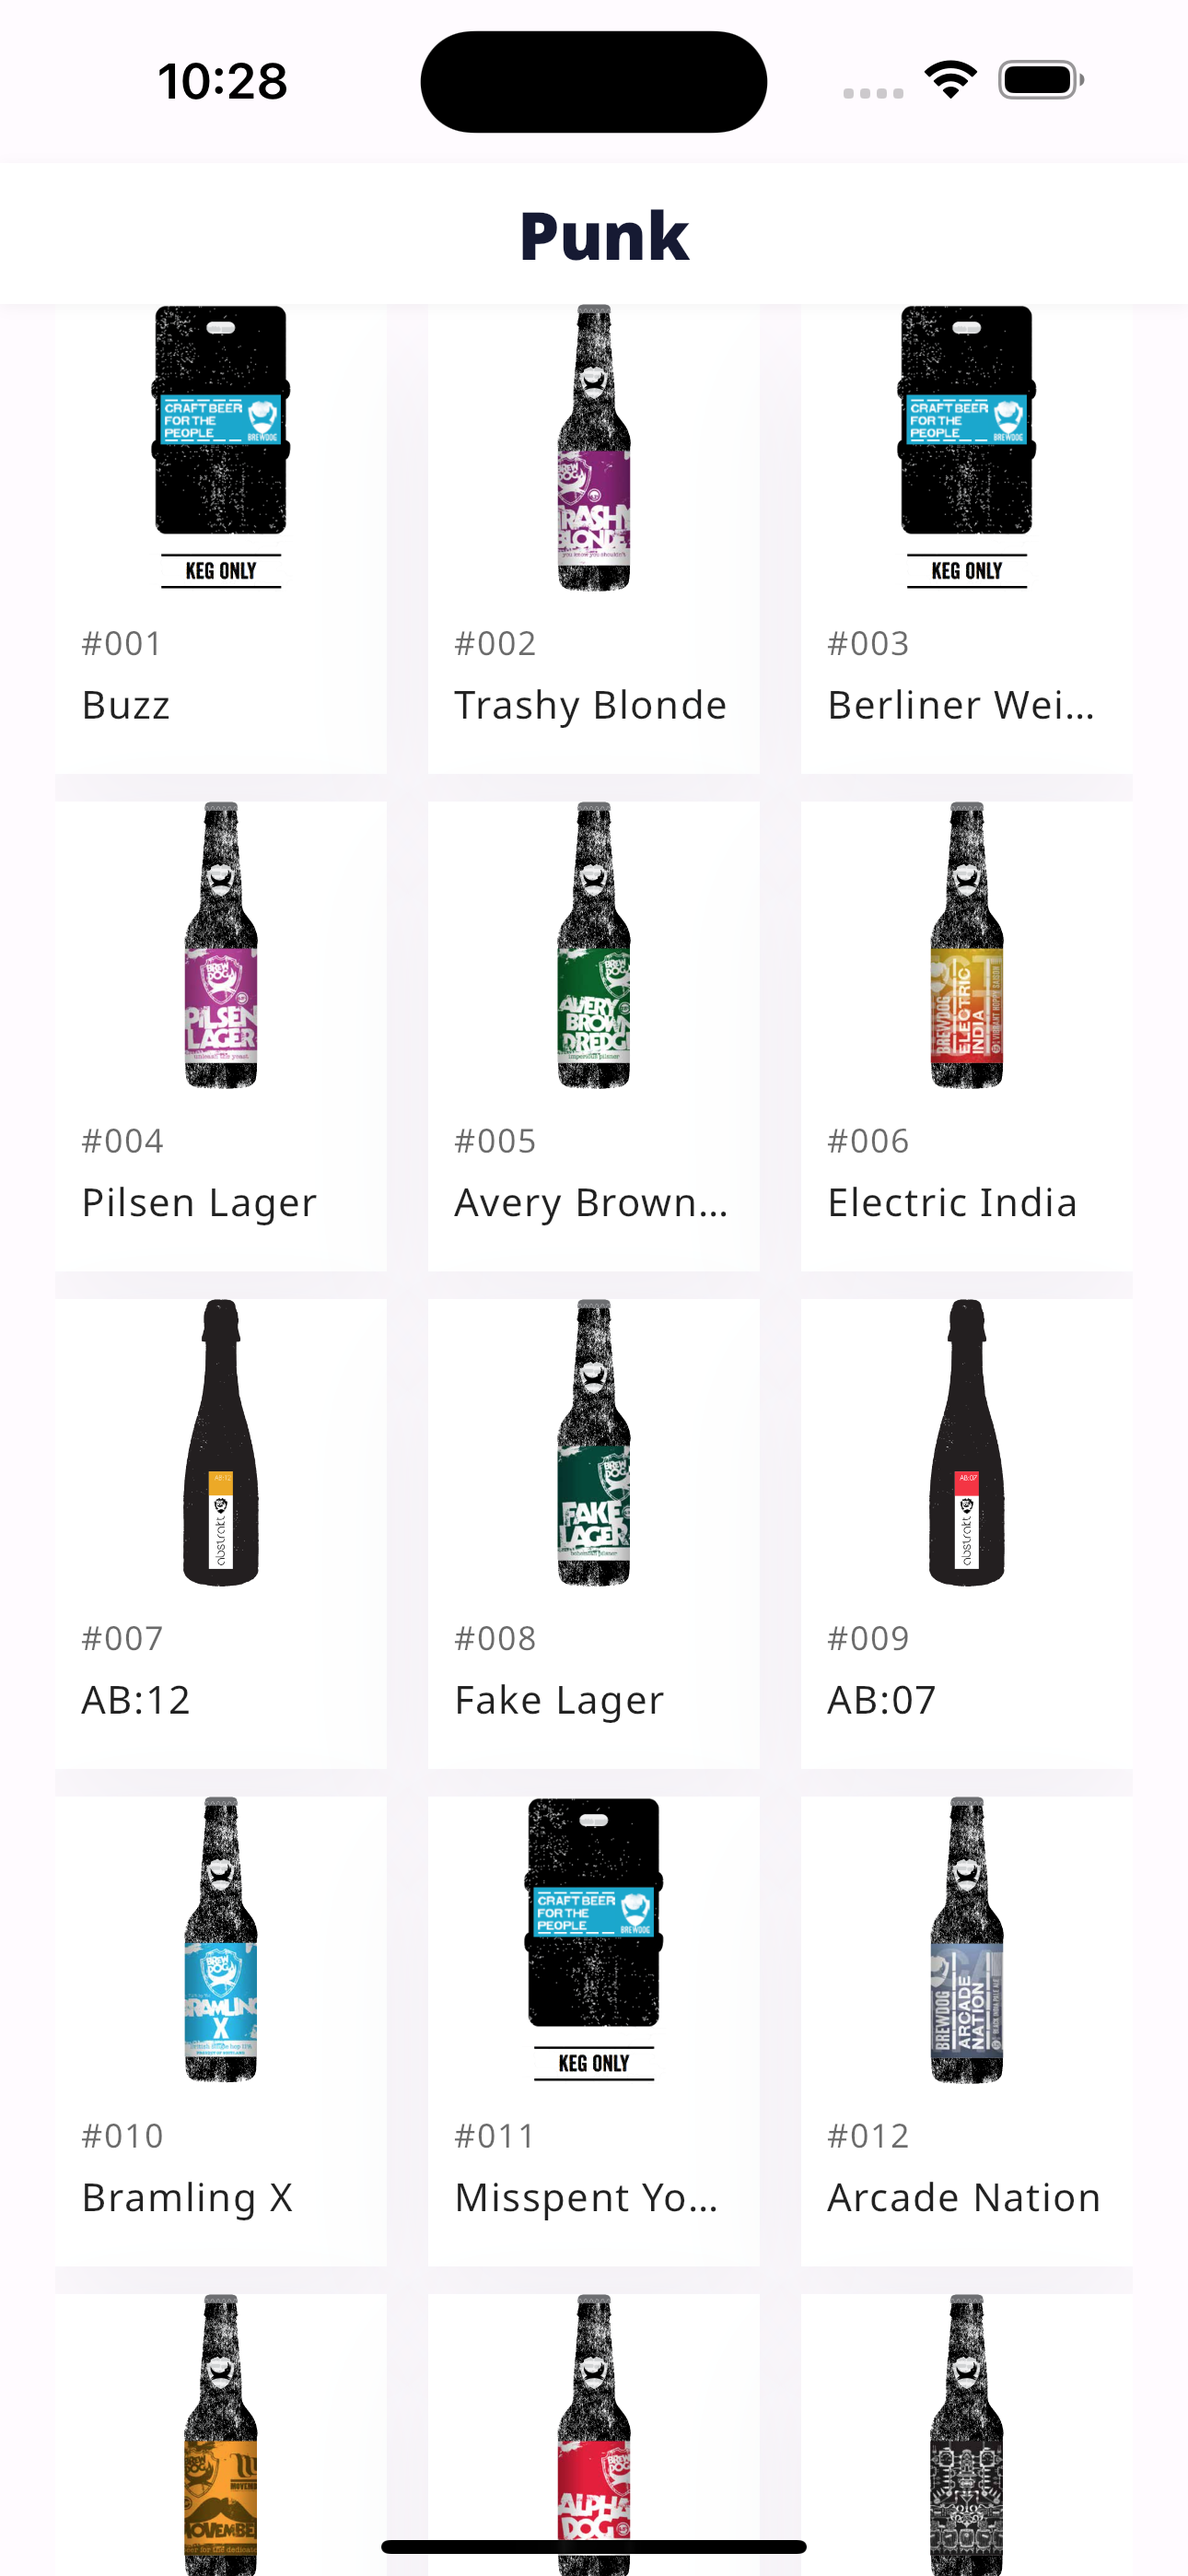
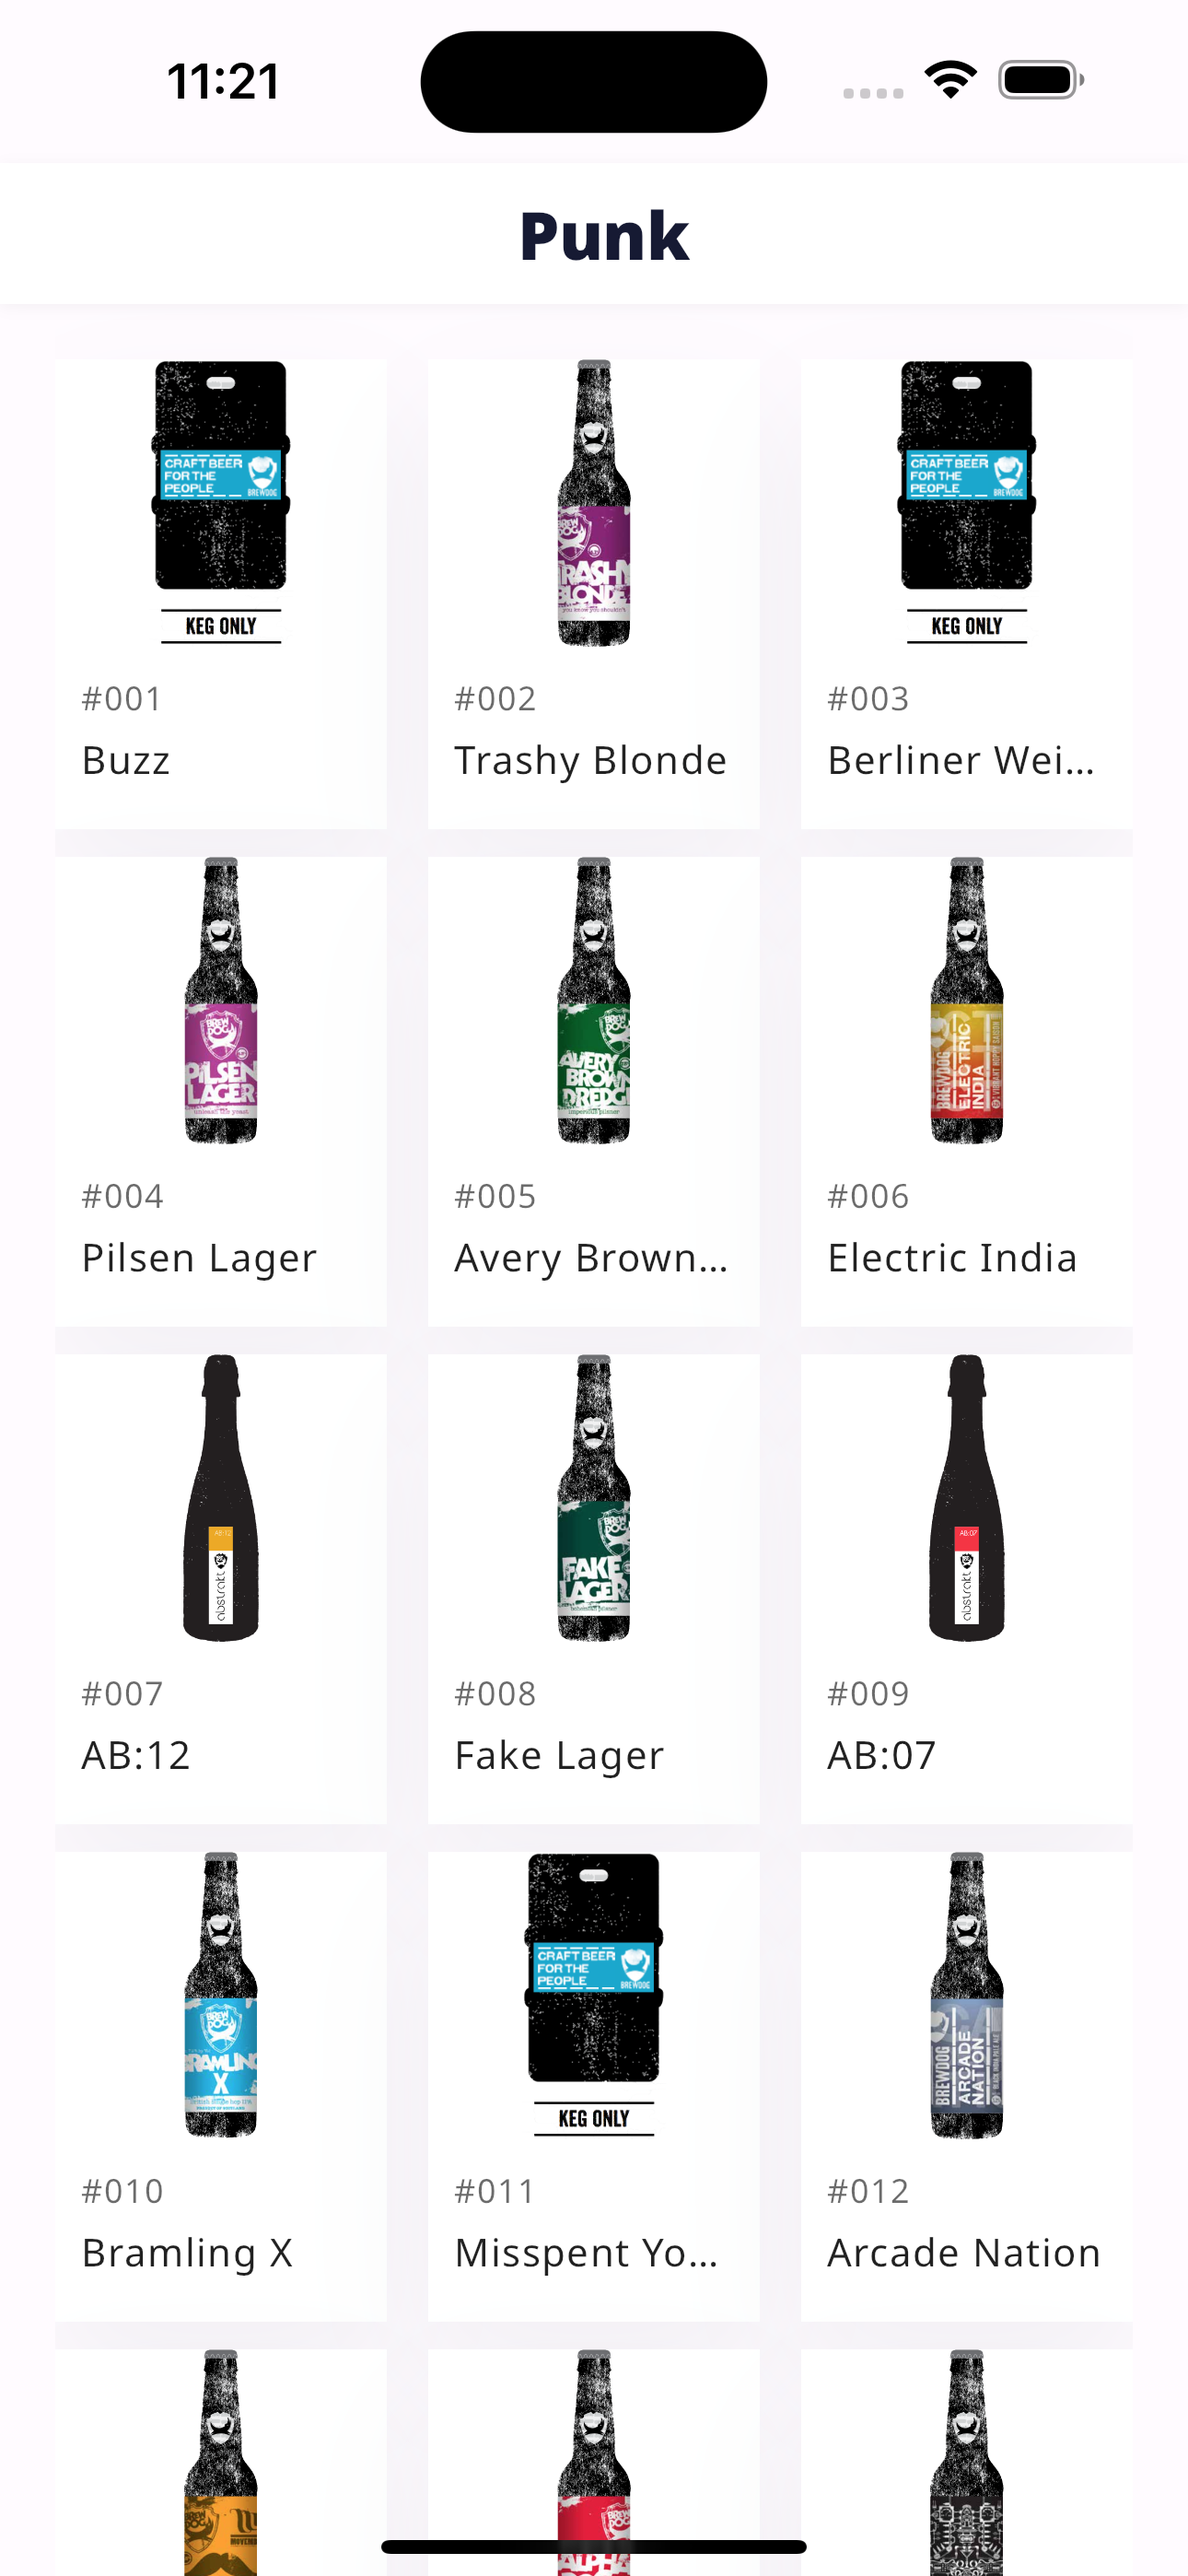
minor ui improvement

diff --git a/lib/src/app/presentations/home/home.dart b/lib/src/app/presentations/home/home.dart
@@ -29,6 +29,11 @@ class HomeView extends StatelessWidget {
                     padding: const EdgeInsets.symmetric(horizontal: 20),
                     child: CustomScrollView(
                       slivers: [
+                        const SliverToBoxAdapter(
+                          child: SizedBox(
+                            height: 20,
+                          ),
+                        ),
                         SliverGrid(
                           key: const PageStorageKey<String>('listview'),
                           gridDelegate:
